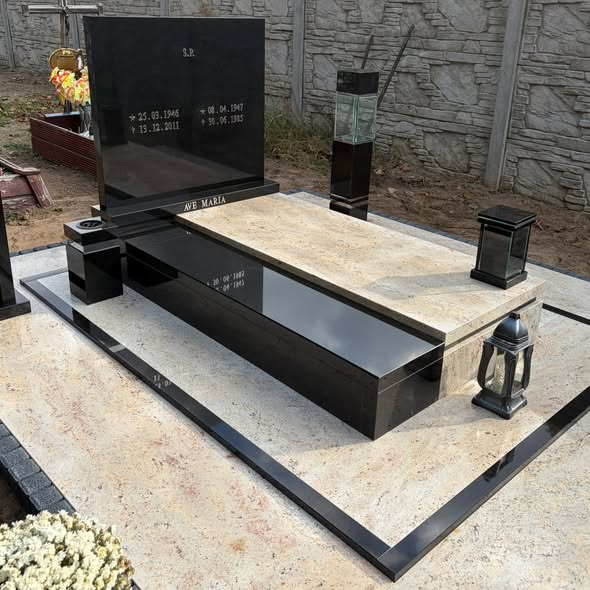
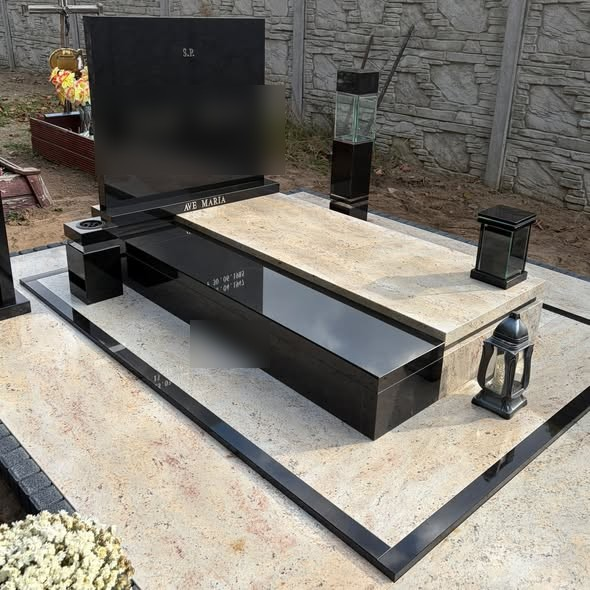
Poprawki po radzie: daty na tablicach rozmyte, uczciwe podpisy (plac zakładu, przykładowe wzory), bez obietnic bez źródła

diff --git a/index.html b/index.html
@@ -4,7 +4,7 @@
 <meta charset="UTF-8">
 <meta name="viewport" content="width=device-width, initial-scale=1.0">
 <title>Nagrobki z granitu i dopisy · Międzyrzecz | Zefiro</title>
-<meta name="description" content="Zefiro, zakład kamieniarski w Międzyrzeczu: nagrobki pojedyncze i rodzinne, grobowce, dopisy, renowacje. Projekt i wycena przed decyzją. Tel. 885 165 001.">
+<meta name="description" content="Zefiro, zakład kamieniarski w Międzyrzeczu: nagrobki pojedyncze i rodzinne, grobowce, dopisy, renowacje. Dopisy i piaskowanie napisów. Tel. 885 165 001.">
 <link rel="canonical" href="https://impulseo-pl.github.io/zefiro/">
 <meta name="robots" content="noindex, nofollow">
 <meta name="theme-color" content="#240808">
@@ -12,7 +12,7 @@
 <meta property="og:locale" content="pl_PL">
 <meta property="og:site_name" content="Zefiro">
 <meta property="og:title" content="Nagrobki z granitu i dopisy · Międzyrzecz | Zefiro">
-<meta property="og:description" content="Zefiro, zakład kamieniarski w Międzyrzeczu: nagrobki pojedyncze i rodzinne, grobowce, dopisy, renowacje. Projekt i wycena przed decyzją. Tel. 885 165 001.">
+<meta property="og:description" content="Zefiro, zakład kamieniarski w Międzyrzeczu: nagrobki pojedyncze i rodzinne, grobowce, dopisy, renowacje. Dopisy i piaskowanie napisów. Tel. 885 165 001.">
 <meta property="og:url" content="https://impulseo-pl.github.io/zefiro/">
 <meta property="og:image" content="https://impulseo-pl.github.io/zefiro/img/og.jpg">
 <meta property="og:image:width" content="1200">
@@ -25,10 +25,10 @@
 <link rel="preconnect" href="https://fonts.googleapis.com">
 <link rel="preconnect" href="https://fonts.gstatic.com" crossorigin>
 <link href="https://fonts.googleapis.com/css2?family=Instrument+Sans:wght@400..600&family=Instrument+Serif&display=swap" rel="stylesheet">
-<link rel="stylesheet" href="assets/styles.css?v=20261118a">
-<style>@media (max-width:700px){.pill-logo .word{display:inline;font-size:.92rem;letter-spacing:.12em}}</style>
+<link rel="stylesheet" href="assets/styles.css?v=20261118b">
+<style>.hero-img{object-position:50% 30%}@media (max-width:700px){.pill-logo .word{display:inline;font-size:.92rem;letter-spacing:.12em}}</style>
 <script src="assets/lenis.min.js?v=1.1.20" defer></script>
-<script src="assets/main.js?v=20261118a" defer></script>
+<script src="assets/main.js?v=20261118b" defer></script>
 </head>
 <body>
 <a class="skip" href="#tresc">Przejdź do treści</a>
@@ -61,7 +61,7 @@
       <h1>Nagrobki z&nbsp;granitu i&nbsp;dopisy</h1>
     </div>
     <div class="hero-side">
-      <p>Najpierw zobaczysz projekt i&nbsp;pełną wycenę. Kamień zamawiamy dopiero, gdy wszystko Ci pasuje.</p>
+      <p>Pomagamy wybrać projekt i&nbsp;kamień, wykonujemy pomnik w&nbsp;naszym zakładzie i&nbsp;sami go montujemy.</p>
       <div class="btn-row">
         <a class="btn btn-main hero-call" href="tel:+48885165001"><svg class="ico" viewBox="0 0 24 24" fill="none" aria-hidden="true"><path d="M6.6 10.8a15.5 15.5 0 0 0 6.6 6.6l2.2-2.2a1 1 0 0 1 1-.24 11.4 11.4 0 0 0 3.6.58 1 1 0 0 1 1 1V20a1 1 0 0 1-1 1A17 17 0 0 1 3 4a1 1 0 0 1 1-1h3.5a1 1 0 0 1 1 1c0 1.25.2 2.45.57 3.57a1 1 0 0 1-.25 1L6.6 10.8Z" fill="currentColor"/></svg>Zadzwoń +48 885 165 001</a>
         <a class="btn btn-line btn-on-photo" href="realizacje.html">Zobacz realizacje</a>
@@ -72,10 +72,10 @@
 
 <section class="facts cacao dark" aria-label="Najważniejsze informacje">
   <ul class="wrap facts-list">
-    <li><b>Własny zakład</b>i&nbsp;montaż na cmentarzu</li>
-    <li><b>Formalności</b>załatwiamy na cmentarzu</li>
-    <li><b>Projekt</b>przed decyzją</li>
-    <li><b>Cena</b>rozpisana na pozycje</li>
+    <li><b>Własny zakład</b>wykonanie i&nbsp;montaż</li>
+    <li><b>Pomoc w&nbsp;wyborze</b>projektu i&nbsp;kamienia</li>
+    <li><b>Dopisy</b>liternictwo i&nbsp;piaskowanie</li>
+    <li><b>Międzyrzecz</b>i&nbsp;okoliczne cmentarze</li>
   </ul>
 </section>
 
@@ -96,7 +96,7 @@
   <div class="reveal-stick">
     <div class="reveal-main">
       <h2 class="label" id="jak">Jak pracujemy</h2>
-      <p class="reveal-text">Rozmawiamy o&nbsp;tym, jaki ma być pomnik. Przygotowujemy projekt z&nbsp;wymiarami i&nbsp;wycenę rozpisaną na pozycje. Kamień zamawiamy dopiero, gdy wszystko Ci pasuje. Formalności na cmentarzu załatwiamy my, a&nbsp;na końcu sami montujemy.</p>
+      <p class="reveal-text">Rozmawiamy o&nbsp;tym, jaki ma być pomnik. Pomagamy wybrać projekt i&nbsp;kamień, a&nbsp;szczegóły i&nbsp;cenę ustalamy przed rozpoczęciem pracy. Pomnik wykonujemy w&nbsp;naszym zakładzie i&nbsp;sami montujemy go na cmentarzu.</p>
     </div>
     <aside class="reveal-aside">
       <p class="label">Zadzwoń, porozmawiamy spokojnie</p>
@@ -111,12 +111,12 @@
     <h2 class="label">Oferta</h2>
     <div>
       <div class="svc-list">
-      <a class="svc-row" href="oferta.html#pojedyncze"><h3>Nagrobki pojedyncze</h3><p>Od projektu z&nbsp;wymiarami po montaż, z&nbsp;własnego zakładu.</p></a>
-      <a class="svc-row" href="oferta.html#rodzinne"><h3>Nagrobki podwójne i&nbsp;rodzinne</h3><p>Z&nbsp;miejscem na kolejne wpisy, bez przeróbek całości.</p></a>
+      <a class="svc-row" href="oferta.html#pojedyncze"><h3>Nagrobki pojedyncze</h3><p>Od wyboru projektu po montaż, z&nbsp;własnego zakładu.</p></a>
+      <a class="svc-row" href="oferta.html#rodzinne"><h3>Nagrobki podwójne i&nbsp;rodzinne</h3><p>Z&nbsp;myślą o&nbsp;kolejnych wpisach.</p></a>
       <a class="svc-row" href="oferta.html#grobowce"><h3>Grobowce i&nbsp;piwnice</h3><p>Przed pochówkiem albo z&nbsp;wyprzedzeniem, na przyszłość.</p></a>
-      <a class="svc-row" href="oferta.html#dopisy"><h3>Liternictwo i&nbsp;dopisy</h3><p>Zwykle na cmentarzu, bez zdejmowania tablicy.</p></a>
-      <a class="svc-row" href="oferta.html#renowacja"><h3>Renowacja i&nbsp;czyszczenie</h3><p>Mycie, polerowanie, ustawienie elementów na nowo.</p></a>
-      <a class="svc-row" href="oferta.html#dodatki"><h3>Wazony, lampiony i&nbsp;tablice</h3><p>Z&nbsp;kamienia zgranego z&nbsp;pomnikiem, mocowane na stałe.</p></a>
+      <a class="svc-row" href="oferta.html#dopisy"><h3>Liternictwo i&nbsp;dopisy</h3><p>Także piaskowanie napisów.</p></a>
+      <a class="svc-row" href="oferta.html#renowacja"><h3>Renowacja i&nbsp;czyszczenie</h3><p>Zakres ustalamy po obejrzeniu pomnika.</p></a>
+      <a class="svc-row" href="oferta.html#dodatki"><h3>Wazony, lampiony i&nbsp;tablice</h3><p>Dobrane do pomnika, razem z&nbsp;nagrobkiem albo później.</p></a>
       </div>
       <div class="svc-foot"><a class="btn btn-main" href="oferta.html">Pełna oferta <span aria-hidden="true">→</span></a></div>
     </div>
@@ -128,7 +128,7 @@
     <a class="card" href="oferta.html#pojedyncze"><img src="img/g13.jpg" width="1200" height="1600" alt="Jasny nagrobek pojedynczy z&nbsp;krzyżem, realizacja Zefiro" decoding="async"><span class="card-in"><h3>Nagrobki pojedyncze</h3><span class="btn btn-main btn-sm">Zobacz w&nbsp;ofercie</span></span></a>
   </div></div>
   <div class="card-wrap"><div class="card-stick">
-    <a class="card" href="oferta.html#rodzinne"><img src="img/g16.jpg" width="932" height="692" alt="Nagrobek podwójny z&nbsp;ciemnego granitu, realizacja Zefiro" loading="lazy" decoding="async"><span class="card-in"><h3>Nagrobki podwójne i&nbsp;rodzinne</h3><span class="btn btn-main btn-sm">Zobacz w&nbsp;ofercie</span></span></a>
+    <a class="card" href="oferta.html#pojedyncze"><img src="img/g15.jpg" width="658" height="908" alt="Nagrobek z&nbsp;czarnego granitu, realizacja Zefiro" loading="lazy" decoding="async"><span class="card-in"><h3>Nagrobki z&nbsp;ciemnego granitu</h3><span class="btn btn-main btn-sm">Zobacz w&nbsp;ofercie</span></span></a>
   </div></div>
   <div class="card-wrap"><div class="card-stick">
     <a class="card" href="oferta.html#pojedyncze"><img src="img/g11.jpg" width="720" height="960" alt="Nagrobek z&nbsp;czerwonego granitu z&nbsp;krzyżem, realizacja Zefiro" loading="lazy" decoding="async"><span class="card-in"><h3>Granit w&nbsp;różnych kolorach</h3><span class="btn btn-main btn-sm">Zobacz w&nbsp;ofercie</span></span></a>
@@ -139,11 +139,11 @@
 <section class="sec bone" id="dodatki">
   <div class="wrap about">
     <div class="about-left up">
-      <p class="label-serif">Wazony i&nbsp;lampiony</p><figure class="about-fig"><img src="img/z2.jpg" width="590" height="590" alt="Zestaw kamiennych wazonów i&nbsp;lampionów, Zefiro" loading="lazy"></figure>
+      <p class="label-serif">Wazony i&nbsp;lampiony</p><figure class="about-fig"><img src="img/z2.jpg" width="590" height="590" alt="Przykładowe wzory wazonów i&nbsp;lampionów" loading="lazy"><figcaption class="poglad">Przykładowe wzory</figcaption></figure>
     </div>
     <div class="about-right up">
-      <p class="statement">Wazon, lampion czy ławeczka przy grobie, z&nbsp;kamienia zgranego kolorem i&nbsp;fakturą z&nbsp;pomnikiem.</p>
-      <p class="lead">Mocujemy na stałe, żeby nic nie chodziło po płycie. Można zamówić razem z&nbsp;nagrobkiem albo dokupić po latach.</p>
+      <p class="statement">Wazon, lampion czy tablica przy grobie, dobrane kolorem do pomnika.</p>
+      <p class="lead">Można zamówić razem z&nbsp;nagrobkiem albo dokupić później.</p>
       <div class="btn-row"><a class="btn btn-main" href="tel:+48885165001"><svg class="ico" viewBox="0 0 24 24" fill="none" aria-hidden="true"><path d="M6.6 10.8a15.5 15.5 0 0 0 6.6 6.6l2.2-2.2a1 1 0 0 1 1-.24 11.4 11.4 0 0 0 3.6.58 1 1 0 0 1 1 1V20a1 1 0 0 1-1 1A17 17 0 0 1 3 4a1 1 0 0 1 1-1h3.5a1 1 0 0 1 1 1c0 1.25.2 2.45.57 3.57a1 1 0 0 1-.25 1L6.6 10.8Z" fill="currentColor"/></svg>Zadzwoń +48 885 165 001</a></div>
     </div>
   </div>
@@ -169,7 +169,7 @@
       <h2>Porozmawiajmy</h2>
       <p class="big-addr">ul. Konstytucji 3 Maja 53<br>66-300 Międzyrzecz</p>
       <div class="contact-meta">
-        <p><b>Zakład</b>Możesz przyjść, obejrzeć kamień i&nbsp;projekty, i&nbsp;wrócić z&nbsp;decyzją, kiedy przyjdzie na to czas.</p>
+        <p><b>Zakład</b>Możesz przyjść, obejrzeć kamień i&nbsp;wrócić z&nbsp;decyzją, kiedy przyjdzie na to czas. Najlepiej zadzwoń wcześniej.</p>
         <p><a class="link" href="https://www.google.com/maps/place/Firma+Kamieniarska+Zefiro/@52.4386114,15.5834613,406m/data=!3m1!1e3!4m6!3m5!1s0x4706f49b4816bd09:0x40137a1db30fa63c!8m2!3d52.438465!4d15.584197" target="_blank" rel="noopener">Wyznacz trasę w&nbsp;Google <span aria-hidden="true">→</span></a></p>
       </div>
       <div class="map"><iframe src="https://maps.google.com/maps?q=Firma%20Kamieniarska%20Zefiro%2C%20Konstytucji%203%20Maja%2053%2C%20Mi%C4%99dzyrzecz&z=15&output=embed" title="Mapa dojazdu, ul. Konstytucji 3 Maja 53, 66-300 Międzyrzecz" loading="lazy" referrerpolicy="no-referrer-when-downgrade"></iframe></div>

diff --git a/realizacje.html b/realizacje.html
@@ -23,10 +23,10 @@
 <link rel="preconnect" href="https://fonts.googleapis.com">
 <link rel="preconnect" href="https://fonts.gstatic.com" crossorigin>
 <link href="https://fonts.googleapis.com/css2?family=Instrument+Sans:wght@400..600&family=Instrument+Serif&display=swap" rel="stylesheet">
-<link rel="stylesheet" href="assets/styles.css?v=20261118a">
-<style>@media (max-width:700px){.pill-logo .word{display:inline;font-size:.92rem;letter-spacing:.12em}}</style>
+<link rel="stylesheet" href="assets/styles.css?v=20261118b">
+<style>.hero-img{object-position:50% 30%}@media (max-width:700px){.pill-logo .word{display:inline;font-size:.92rem;letter-spacing:.12em}}</style>
 <script src="assets/lenis.min.js?v=1.1.20" defer></script>
-<script src="assets/main.js?v=20261118a" defer></script>
+<script src="assets/main.js?v=20261118b" defer></script>
 </head>
 <body>
 <a class="skip" href="#tresc">Przejdź do treści</a>
@@ -54,25 +54,25 @@
 <section class="phead bone">
   <div class="wrap">
     <nav class="crumbs" aria-label="Okruszki"><a href="index.html">Strona główna</a><span aria-hidden="true">/</span><span aria-current="page">Realizacje</span></nav>
-    <h1>Pomniki, które wykonaliśmy i&nbsp;ustawiliśmy</h1>
-    <p class="lead">Zdjęcia z&nbsp;cmentarzy, nie z&nbsp;katalogu hurtowni. Kliknij zdjęcie, żeby je powiększyć.</p>
+    <h1>Pomniki z&nbsp;naszego zakładu</h1>
+    <p class="lead">Pomniki z&nbsp;naszego placu i&nbsp;z&nbsp;cmentarzy. Kliknij zdjęcie, żeby je powiększyć.</p>
   </div>
 </section>
 <section class="sec bone" style="padding-top:0">
   <div class="wrap">
     <div class="gal">
-    <figure><button type="button" aria-label="Powiększ: Nagrobek z&nbsp;czarnego granitu z&nbsp;jasnym obramowaniem"><img src="img/z3.jpg" width="590" height="590" alt="Nagrobek z&nbsp;czarnego granitu z&nbsp;jasnym obramowaniem" loading="lazy"></button><figcaption><b>Ciemny granit z&nbsp;jasnym obramowaniem</b>Nagrobek pojedynczy</figcaption></figure>
+    <figure><button type="button" aria-label="Powiększ: Nagrobek z&nbsp;czarnego granitu z&nbsp;jasnym obramowaniem"><img src="img/z3.jpg" width="590" height="590" alt="Nagrobek z&nbsp;czarnego granitu z&nbsp;jasnym obramowaniem" loading="lazy"></button><figcaption><b>Ciemny granit z&nbsp;jasnym obramowaniem</b>Na cmentarzu</figcaption></figure>
     <figure><button type="button" aria-label="Powiększ: Ten sam nagrobek z&nbsp;boku"><img src="img/z6.jpg" width="590" height="590" alt="Ten sam nagrobek z&nbsp;boku" loading="lazy"></button><figcaption><b>Ten sam nagrobek z&nbsp;boku</b>Obramowanie i płyta</figcaption></figure>
-    <figure><button type="button" aria-label="Powiększ: Jasny nagrobek z&nbsp;krzyżem i&nbsp;kwiatami"><img src="img/z5.jpg" width="590" height="590" alt="Jasny nagrobek z&nbsp;krzyżem i&nbsp;kwiatami" loading="lazy"></button><figcaption><b>Jasny granit z&nbsp;krzyżem</b>Nagrobek pojedynczy</figcaption></figure>
-    <figure><button type="button" aria-label="Powiększ: Jasny nagrobek z&nbsp;krzyżem"><img src="img/g13.jpg" width="1200" height="1600" alt="Jasny nagrobek z&nbsp;krzyżem" loading="lazy"></button><figcaption><b>Jasny nagrobek</b>Krzyż na tablicy</figcaption></figure>
-    <figure><button type="button" aria-label="Powiększ: Jasny nagrobek z&nbsp;sercem"><img src="img/g14.jpg" width="1189" height="1600" alt="Jasny nagrobek z&nbsp;sercem" loading="lazy"></button><figcaption><b>Nagrobek z&nbsp;sercem</b>Jasny granit</figcaption></figure>
-    <figure><button type="button" aria-label="Powiększ: Jasny nagrobek z&nbsp;granitu"><img src="img/g10.jpg" width="1180" height="1600" alt="Jasny nagrobek z&nbsp;granitu" loading="lazy"></button><figcaption><b>Jasny nagrobek</b>Granit polerowany</figcaption></figure>
-    <figure><button type="button" aria-label="Powiększ: Nagrobek z&nbsp;czerwonego granitu z&nbsp;krzyżem"><img src="img/g11.jpg" width="720" height="960" alt="Nagrobek z&nbsp;czerwonego granitu z&nbsp;krzyżem" loading="lazy"></button><figcaption><b>Czerwony granit</b>Tablica z&nbsp;krzyżem</figcaption></figure>
-    <figure><button type="button" aria-label="Powiększ: Nagrobek z ciemnego granitu"><img src="img/g12.jpg" width="1200" height="1600" alt="Nagrobek z ciemnego granitu" loading="lazy"></button><figcaption><b>Ciemny granit</b>Nagrobek pojedynczy</figcaption></figure>
-    <figure><button type="button" aria-label="Powiększ: Nagrobek z czarnego granitu"><img src="img/g15.jpg" width="658" height="908" alt="Nagrobek z czarnego granitu" loading="lazy"></button><figcaption><b>Czarny granit</b>Nagrobek pojedynczy</figcaption></figure>
-    <figure><button type="button" aria-label="Powiększ: Nagrobek podwójny z&nbsp;ciemnego granitu"><img src="img/g16.jpg" width="932" height="692" alt="Nagrobek podwójny z&nbsp;ciemnego granitu" loading="lazy"></button><figcaption><b>Nagrobek podwójny</b>Ciemny granit</figcaption></figure>
-    <figure><button type="button" aria-label="Powiększ: Kamienne lampiony na płycie"><img src="img/z1.jpg" width="590" height="590" alt="Kamienne lampiony na płycie" loading="lazy"></button><figcaption><b>Lampiony</b>Z&nbsp;kamienia</figcaption></figure>
-    <figure><button type="button" aria-label="Powiększ: Kamienne wazony i&nbsp;lampiony"><img src="img/z2.jpg" width="590" height="590" alt="Kamienne wazony i&nbsp;lampiony" loading="lazy"></button><figcaption><b>Wazony i&nbsp;lampiony</b>Różne kolory kamienia</figcaption></figure>
+    <figure><button type="button" aria-label="Powiększ: Jasny nagrobek z&nbsp;krzyżem i&nbsp;kwiatami"><img src="img/z5.jpg" width="590" height="590" alt="Jasny nagrobek z&nbsp;krzyżem i&nbsp;kwiatami" loading="lazy"></button><figcaption><b>Jasny granit z&nbsp;krzyżem</b>Na cmentarzu</figcaption></figure>
+    <figure><button type="button" aria-label="Powiększ: Jasny nagrobek z&nbsp;krzyżem"><img src="img/g13.jpg" width="1200" height="1600" alt="Jasny nagrobek z&nbsp;krzyżem" loading="lazy"></button><figcaption><b>Jasny nagrobek</b>Na placu zakładu</figcaption></figure>
+    <figure><button type="button" aria-label="Powiększ: Jasny nagrobek z&nbsp;sercem"><img src="img/g14.jpg" width="1189" height="1600" alt="Jasny nagrobek z&nbsp;sercem" loading="lazy"></button><figcaption><b>Nagrobek z&nbsp;sercem</b>Na placu zakładu</figcaption></figure>
+    <figure><button type="button" aria-label="Powiększ: Jasny nagrobek z&nbsp;granitu"><img src="img/g10.jpg" width="1180" height="1600" alt="Jasny nagrobek z&nbsp;granitu" loading="lazy"></button><figcaption><b>Jasny nagrobek</b>Na placu zakładu</figcaption></figure>
+    <figure><button type="button" aria-label="Powiększ: Nagrobek z&nbsp;czerwonego granitu z&nbsp;krzyżem"><img src="img/g11.jpg" width="720" height="960" alt="Nagrobek z&nbsp;czerwonego granitu z&nbsp;krzyżem" loading="lazy"></button><figcaption><b>Czerwony granit</b>Na placu zakładu</figcaption></figure>
+    <figure><button type="button" aria-label="Powiększ: Nagrobek z ciemnego granitu"><img src="img/g12.jpg" width="1200" height="1600" alt="Nagrobek z ciemnego granitu" loading="lazy"></button><figcaption><b>Ciemny granit</b>Na placu zakładu</figcaption></figure>
+    <figure><button type="button" aria-label="Powiększ: Nagrobek z czarnego granitu"><img src="img/g15.jpg" width="658" height="908" alt="Nagrobek z czarnego granitu" loading="lazy"></button><figcaption><b>Czarny granit</b>Na placu zakładu</figcaption></figure>
+    <figure><button type="button" aria-label="Powiększ: Dwa nagrobki z&nbsp;ciemnego granitu"><img src="img/g16.jpg" width="932" height="692" alt="Dwa nagrobki z&nbsp;ciemnego granitu" loading="lazy"></button><figcaption><b>Dwa nagrobki z&nbsp;ciemnego granitu</b>Na placu zakładu</figcaption></figure>
+    <figure><button type="button" aria-label="Powiększ: Lampiony na płycie z&nbsp;ciemnego granitu"><img src="img/z1.jpg" width="590" height="590" alt="Lampiony na płycie z&nbsp;ciemnego granitu" loading="lazy"></button><figcaption><b>Lampiony</b>Przykładowe wzory</figcaption></figure>
+    <figure><button type="button" aria-label="Powiększ: Wazony i&nbsp;lampiony"><img src="img/z2.jpg" width="590" height="590" alt="Wazony i&nbsp;lampiony" loading="lazy"></button><figcaption><b>Wazony i&nbsp;lampiony</b>Przykładowe wzory</figcaption></figure>
     </div>
   </div>
 </section>

diff --git a/oferta.html b/oferta.html
@@ -23,10 +23,10 @@
 <link rel="preconnect" href="https://fonts.googleapis.com">
 <link rel="preconnect" href="https://fonts.gstatic.com" crossorigin>
 <link href="https://fonts.googleapis.com/css2?family=Instrument+Sans:wght@400..600&family=Instrument+Serif&display=swap" rel="stylesheet">
-<link rel="stylesheet" href="assets/styles.css?v=20261118a">
-<style>@media (max-width:700px){.pill-logo .word{display:inline;font-size:.92rem;letter-spacing:.12em}}</style>
+<link rel="stylesheet" href="assets/styles.css?v=20261118b">
+<style>.hero-img{object-position:50% 30%}@media (max-width:700px){.pill-logo .word{display:inline;font-size:.92rem;letter-spacing:.12em}}</style>
 <script src="assets/lenis.min.js?v=1.1.20" defer></script>
-<script src="assets/main.js?v=20261118a" defer></script>
+<script src="assets/main.js?v=20261118b" defer></script>
 </head>
 <body>
 <a class="skip" href="#tresc">Przejdź do treści</a>
@@ -66,25 +66,25 @@
       <figure class="off-fig"><img src="img/g14.jpg" width="1189" height="1600" alt="Jasny nagrobek pojedynczy z&nbsp;sercem, realizacja Zefiro" loading="lazy"></figure>
       <div>
         <h2>Nagrobki pojedyncze</h2>
-        <p>Robimy go od początku do końca sami: projekt z&nbsp;wymiarami, docięcie i&nbsp;polerowanie kamienia, liternictwo, na końcu montaż. Fundament zbroimy i&nbsp;dajemy mu związać, dlatego pomnik stoi prosto także po latach.</p>
-        <ul><li>Projekt z&nbsp;wymiarami</li><li>Docięcie i&nbsp;polerowanie kamienia</li><li>Liternictwo i&nbsp;montaż</li></ul>
+        <p>Robimy go w&nbsp;naszym zakładzie: pomagamy wybrać projekt i&nbsp;kamień, wykonujemy liternictwo, a&nbsp;na końcu montujemy pomnik na cmentarzu.</p>
+        <ul><li>Pomoc w&nbsp;wyborze projektu i&nbsp;kamienia</li><li>Liternictwo</li><li>Montaż na cmentarzu</li></ul>
         <div class="btn-row" style="margin-top:32px"><a class="btn btn-main" href="tel:+48885165001"><svg class="ico" viewBox="0 0 24 24" fill="none" aria-hidden="true"><path d="M6.6 10.8a15.5 15.5 0 0 0 6.6 6.6l2.2-2.2a1 1 0 0 1 1-.24 11.4 11.4 0 0 0 3.6.58 1 1 0 0 1 1 1V20a1 1 0 0 1-1 1A17 17 0 0 1 3 4a1 1 0 0 1 1-1h3.5a1 1 0 0 1 1 1c0 1.25.2 2.45.57 3.57a1 1 0 0 1-.25 1L6.6 10.8Z" fill="currentColor"/></svg>Zadzwoń</a><a class="btn btn-line" href="sms:+48885165001?body=Dzie%C5%84%20dobry%2C%20pytam%20o%3A%20%28nagrobek%2Fdopis%2Frenowacja%29.%20Cmentarz%3A%20...">Napisz SMS</a></div>
       </div>
     </article>
     <article class="off up" id="rodzinne">
-      <figure class="off-fig"><img src="img/g16.jpg" width="932" height="692" alt="Nagrobek podwójny z&nbsp;ciemnego granitu, realizacja Zefiro" loading="lazy"></figure>
+      <figure class="off-fig"><img src="img/z3.jpg" width="590" height="590" alt="Nagrobek z&nbsp;czarnego granitu z&nbsp;jasnym obramowaniem na cmentarzu, realizacja Zefiro" loading="lazy"></figure>
       <div>
         <h2>Nagrobki podwójne i&nbsp;rodzinne</h2>
-        <p>Grób rodzinny projektujemy z&nbsp;myślą o&nbsp;kolejnych pokoleniach: zostawiamy miejsce na przyszłe wpisy i&nbsp;planujemy tablice tak, żeby dało się je uzupełniać bez przeróbek całości. Rysunek dostaniesz do domu, do obejrzenia z&nbsp;bliskimi.</p>
-        <ul><li>Miejsce na kolejne wpisy</li><li>Rysunek do obejrzenia w&nbsp;domu</li></ul>
+        <p>Grób rodzinny projektujemy z&nbsp;myślą o&nbsp;kolejnych wpisach. Szczegóły ustalamy z&nbsp;rodziną przed rozpoczęciem pracy.</p>
+        <ul><li>Miejsce na kolejne wpisy</li><li>Projekt ustalany z&nbsp;rodziną</li></ul>
         <div class="btn-row" style="margin-top:32px"><a class="btn btn-main" href="tel:+48885165001"><svg class="ico" viewBox="0 0 24 24" fill="none" aria-hidden="true"><path d="M6.6 10.8a15.5 15.5 0 0 0 6.6 6.6l2.2-2.2a1 1 0 0 1 1-.24 11.4 11.4 0 0 0 3.6.58 1 1 0 0 1 1 1V20a1 1 0 0 1-1 1A17 17 0 0 1 3 4a1 1 0 0 1 1-1h3.5a1 1 0 0 1 1 1c0 1.25.2 2.45.57 3.57a1 1 0 0 1-.25 1L6.6 10.8Z" fill="currentColor"/></svg>Zadzwoń</a><a class="btn btn-line" href="sms:+48885165001?body=Dzie%C5%84%20dobry%2C%20pytam%20o%3A%20%28nagrobek%2Fdopis%2Frenowacja%29.%20Cmentarz%3A%20...">Napisz SMS</a></div>
       </div>
     </article>
     <article class="off up" id="dodatki">
-      <figure class="off-fig"><img src="img/z1.jpg" width="590" height="590" alt="Kamienne lampiony na płycie z&nbsp;ciemnego granitu, Zefiro" loading="lazy"></figure>
+      <figure class="off-fig"><img src="img/z1.jpg" width="590" height="590" alt="Lampiony na płycie z&nbsp;ciemnego granitu (przykładowe wzory)" loading="lazy"></figure>
       <div>
         <h2>Wazony, lampiony i&nbsp;tablice</h2>
-        <p>Wazon, lampion czy ławeczka przy grobie, z&nbsp;kamienia zgranego kolorem i&nbsp;fakturą z&nbsp;pomnikiem. Mocujemy na stałe, żeby nic nie chodziło po płycie. Można zamówić razem z&nbsp;nagrobkiem albo dokupić po latach.</p>
+        <p>Wazon, lampion czy tablica przy grobie, dobrane kolorem do pomnika. Można zamówić razem z&nbsp;nagrobkiem albo dokupić później.</p>
         <ul><li>Wazony</li><li>Lampiony</li><li>Tablice i ławeczki</li></ul>
         <div class="btn-row" style="margin-top:32px"><a class="btn btn-main" href="tel:+48885165001"><svg class="ico" viewBox="0 0 24 24" fill="none" aria-hidden="true"><path d="M6.6 10.8a15.5 15.5 0 0 0 6.6 6.6l2.2-2.2a1 1 0 0 1 1-.24 11.4 11.4 0 0 0 3.6.58 1 1 0 0 1 1 1V20a1 1 0 0 1-1 1A17 17 0 0 1 3 4a1 1 0 0 1 1-1h3.5a1 1 0 0 1 1 1c0 1.25.2 2.45.57 3.57a1 1 0 0 1-.25 1L6.6 10.8Z" fill="currentColor"/></svg>Zadzwoń</a><a class="btn btn-line" href="sms:+48885165001?body=Dzie%C5%84%20dobry%2C%20pytam%20o%3A%20%28nagrobek%2Fdopis%2Frenowacja%29.%20Cmentarz%3A%20...">Napisz SMS</a></div>
       </div>
@@ -94,13 +94,13 @@
 <section class="sec bone" id="robimy-tez">
   <div class="wrap rows">
     <h2 class="label">Robimy też</h2>
-    <dl class="rows-list" style="margin:0"><div id="grobowce"><dt>Grobowce i&nbsp;piwnice</dt><dd>Pojedyncze i&nbsp;rodzinne, przed pochówkiem albo na przyszłość. Wymiary kwatery uzgadniamy z&nbsp;zarządcą cmentarza.</dd></div><div id="dopisy"><dt>Liternictwo i&nbsp;dopisy</dt><dd>Dopis zwykle na cmentarzu, bez zdejmowania tablicy. Krój dobieramy do istniejącego napisu, treść i&nbsp;daty uzgadniamy z&nbsp;rodziną na piśmie.</dd></div><div id="renowacja"><dt>Renowacja i&nbsp;czyszczenie</dt><dd>Myjemy kamień środkami do kamienia naturalnego, zmatowiały granit polerujemy, a&nbsp;elementy, które ruszyły się po zimach, ustawiamy na nowo.</dd></div></dl>
+    <dl class="rows-list" style="margin:0"><div id="grobowce"><dt>Grobowce i&nbsp;piwnice</dt><dd>Pojedyncze i&nbsp;rodzinne. Szczegóły ustalamy przed rozpoczęciem pracy.</dd></div><div id="dopisy"><dt>Liternictwo i&nbsp;dopisy</dt><dd>Dopisy i&nbsp;liternictwo, także piaskowanie napisów. Krój liter dobieramy do istniejącego napisu.</dd></div><div id="renowacja"><dt>Renowacja i&nbsp;czyszczenie</dt><dd>Czyszczenie i&nbsp;odnowienie nagrobków. Zakres ustalamy po obejrzeniu pomnika.</dd></div></dl>
   </div>
 </section>
 <section class="sec bordeaux dark" id="jak-pracujemy">
   <div class="wrap rows">
     <h2 class="label">Jak pracujemy</h2>
-    <div><p class="lead" style="margin-bottom:40px">Bez pośpiechu i&nbsp;bez naciskania.</p><dl class="rows-list" style="margin:0"><div><dt>Rozmowa</dt><dd>Mówisz, czego potrzebujesz. Pokazujemy kamień i&nbsp;projekty.</dd></div><div><dt>Projekt i&nbsp;wycena</dt><dd>Dostajesz projekt i&nbsp;cenę rozpisaną na pozycje. Kamień zamawiamy, gdy wszystko Ci pasuje.</dd></div><div><dt>Wykonanie i&nbsp;montaż</dt><dd>Robimy w&nbsp;naszym zakładzie, formalności na cmentarzu załatwiamy my, a&nbsp;na końcu sami montujemy.</dd></div></dl></div>
+    <div><p class="lead" style="margin-bottom:40px">Bez pośpiechu i&nbsp;bez naciskania.</p><dl class="rows-list" style="margin:0"><div><dt>Rozmowa</dt><dd>Mówisz, czego potrzebujesz. Pokazujemy kamień i&nbsp;projekty.</dd></div><div><dt>Projekt i&nbsp;cena</dt><dd>Pomagamy wybrać projekt i&nbsp;kamień, cenę ustalamy przed rozpoczęciem pracy.</dd></div><div><dt>Wykonanie i&nbsp;montaż</dt><dd>Pomnik robimy w&nbsp;naszym zakładzie, a&nbsp;na cmentarzu montujemy go sami.</dd></div></dl></div>
   </div>
 </section>
 <section class="sec cacao dark band">

diff --git a/o-nas.html b/o-nas.html
@@ -4,7 +4,7 @@
 <meta charset="UTF-8">
 <meta name="viewport" content="width=device-width, initial-scale=1.0">
 <title>O nas · Zefiro, zakład kamieniarski w Międzyrzeczu</title>
-<meta name="description" content="Zefiro, zakład kamieniarski w Międzyrzeczu. Własny zakład i montaż, projekt i wycena przed decyzją, formalności na cmentarzu po naszej stronie.">
+<meta name="description" content="Zefiro, zakład kamieniarski w Międzyrzeczu. Własny zakład i montaż, pomoc w wyborze projektu i kamienia, dopisy i renowacje.">
 <link rel="canonical" href="https://impulseo-pl.github.io/zefiro/o-nas.html">
 <meta name="robots" content="noindex, nofollow">
 <meta name="theme-color" content="#240808">
@@ -12,7 +12,7 @@
 <meta property="og:locale" content="pl_PL">
 <meta property="og:site_name" content="Zefiro">
 <meta property="og:title" content="O nas · Zefiro, zakład kamieniarski w Międzyrzeczu">
-<meta property="og:description" content="Zefiro, zakład kamieniarski w Międzyrzeczu. Własny zakład i montaż, projekt i wycena przed decyzją, formalności na cmentarzu po naszej stronie.">
+<meta property="og:description" content="Zefiro, zakład kamieniarski w Międzyrzeczu. Własny zakład i montaż, pomoc w wyborze projektu i kamienia, dopisy i renowacje.">
 <meta property="og:url" content="https://impulseo-pl.github.io/zefiro/o-nas.html">
 <meta property="og:image" content="https://impulseo-pl.github.io/zefiro/img/og.jpg">
 <meta property="og:image:width" content="1200">
@@ -23,10 +23,10 @@
 <link rel="preconnect" href="https://fonts.googleapis.com">
 <link rel="preconnect" href="https://fonts.gstatic.com" crossorigin>
 <link href="https://fonts.googleapis.com/css2?family=Instrument+Sans:wght@400..600&family=Instrument+Serif&display=swap" rel="stylesheet">
-<link rel="stylesheet" href="assets/styles.css?v=20261118a">
-<style>@media (max-width:700px){.pill-logo .word{display:inline;font-size:.92rem;letter-spacing:.12em}}</style>
+<link rel="stylesheet" href="assets/styles.css?v=20261118b">
+<style>.hero-img{object-position:50% 30%}@media (max-width:700px){.pill-logo .word{display:inline;font-size:.92rem;letter-spacing:.12em}}</style>
 <script src="assets/lenis.min.js?v=1.1.20" defer></script>
-<script src="assets/main.js?v=20261118a" defer></script>
+<script src="assets/main.js?v=20261118b" defer></script>
 </head>
 <body>
 <a class="skip" href="#tresc">Przejdź do treści</a>
@@ -66,7 +66,7 @@
     </div>
     <div class="about-right up">
       <p class="statement">Do zakładu przychodzą ludzie w&nbsp;żałobie. Dlatego odpowiadamy na pytania, pokazujemy kamień i&nbsp;projekty, a&nbsp;decyzję zostawiamy rodzinie.</p>
-      <p class="lead">Nagrobki robimy w&nbsp;naszym zakładzie i&nbsp;sami je montujemy. Formalności na cmentarzu załatwiamy my.</p>
+      <p class="lead">Nagrobki robimy w&nbsp;naszym zakładzie i&nbsp;sami je montujemy.</p>
       <div class="btn-row"><a class="btn btn-main" href="tel:+48885165001"><svg class="ico" viewBox="0 0 24 24" fill="none" aria-hidden="true"><path d="M6.6 10.8a15.5 15.5 0 0 0 6.6 6.6l2.2-2.2a1 1 0 0 1 1-.24 11.4 11.4 0 0 0 3.6.58 1 1 0 0 1 1 1V20a1 1 0 0 1-1 1A17 17 0 0 1 3 4a1 1 0 0 1 1-1h3.5a1 1 0 0 1 1 1c0 1.25.2 2.45.57 3.57a1 1 0 0 1-.25 1L6.6 10.8Z" fill="currentColor"/></svg>+48 885 165 001</a></div>
     </div>
   </div>
@@ -74,7 +74,7 @@
 <section class="sec bordeaux dark">
   <div class="wrap rows">
     <h2 class="label">Na czym możesz polegać</h2>
-    <div class="rows-list"><div><h3>Projekt przed decyzją</h3><p>Najpierw rysunek z&nbsp;wymiarami i&nbsp;wycena, potem zamówienie kamienia.</p></div><div><h3>Cena rozpisana na pozycje</h3><p>Wiesz, za co płacisz.</p></div><div><h3>Formalności po naszej stronie</h3><p>Uzgodnienia z&nbsp;cmentarzem załatwiamy my.</p></div></div>
+    <div class="rows-list"><div><h3>Pomoc w&nbsp;wyborze</h3><p>Projekt i&nbsp;kamień dobieramy razem z&nbsp;rodziną.</p></div><div><h3>Własny zakład</h3><p>Pomniki wykonujemy sami.</p></div><div><h3>Montaż</h3><p>Na cmentarzu montujemy sami.</p></div></div>
   </div>
 </section>
 <section class="sec cacao dark band">

diff --git a/kontakt.html b/kontakt.html
@@ -24,10 +24,10 @@
 <link rel="preconnect" href="https://fonts.googleapis.com">
 <link rel="preconnect" href="https://fonts.gstatic.com" crossorigin>
 <link href="https://fonts.googleapis.com/css2?family=Instrument+Sans:wght@400..600&family=Instrument+Serif&display=swap" rel="stylesheet">
-<link rel="stylesheet" href="assets/styles.css?v=20261118a">
-<style>@media (max-width:700px){.pill-logo .word{display:inline;font-size:.92rem;letter-spacing:.12em}}</style>
+<link rel="stylesheet" href="assets/styles.css?v=20261118b">
+<style>.hero-img{object-position:50% 30%}@media (max-width:700px){.pill-logo .word{display:inline;font-size:.92rem;letter-spacing:.12em}}</style>
 <script src="assets/lenis.min.js?v=1.1.20" defer></script>
-<script src="assets/main.js?v=20261118a" defer></script>
+<script src="assets/main.js?v=20261118b" defer></script>
 </head>
 <body>
 <a class="skip" href="#tresc">Przejdź do treści</a>
@@ -65,7 +65,7 @@
       <h2>Zadzwoń albo napisz SMS</h2>
       <p class="big-addr">ul. Konstytucji 3 Maja 53<br>66-300 Międzyrzecz</p>
       <div class="contact-meta">
-        <p><b>Zakład</b>Możesz przyjść, obejrzeć kamień i&nbsp;projekty, i&nbsp;wrócić z&nbsp;decyzją, kiedy przyjdzie na to czas.</p>
+        <p><b>Zakład</b>Możesz przyjść, obejrzeć kamień i&nbsp;wrócić z&nbsp;decyzją, kiedy przyjdzie na to czas. Najlepiej zadzwoń wcześniej.</p>
         <p><a class="link" href="https://www.google.com/maps/place/Firma+Kamieniarska+Zefiro/@52.4386114,15.5834613,406m/data=!3m1!1e3!4m6!3m5!1s0x4706f49b4816bd09:0x40137a1db30fa63c!8m2!3d52.438465!4d15.584197" target="_blank" rel="noopener">Wyznacz trasę w&nbsp;Google <span aria-hidden="true">→</span></a></p>
       </div>
       <div class="map"><iframe src="https://maps.google.com/maps?q=Firma%20Kamieniarska%20Zefiro%2C%20Konstytucji%203%20Maja%2053%2C%20Mi%C4%99dzyrzecz&z=15&output=embed" title="Mapa dojazdu, ul. Konstytucji 3 Maja 53, 66-300 Międzyrzecz" loading="lazy" referrerpolicy="no-referrer-when-downgrade"></iframe></div>
@@ -85,10 +85,10 @@
   <div class="wrap faq">
     <h2 class="label">Częste pytania</h2>
     <div>
-      <details><summary>Czy mogę najpierw zobaczyć projekt?</summary><p>Tak. Najpierw dostajesz projekt i&nbsp;wycenę rozpisaną na pozycje, a&nbsp;kamień zamawiamy dopiero, gdy wszystko Ci pasuje.</p></details>
-      <details><summary>Kto załatwia formalności na cmentarzu?</summary><p>My. Wymiary kwatery uzgadniamy z&nbsp;zarządcą cmentarza.</p></details>
-      <details><summary>Jak wygląda dopis kolejnej osoby?</summary><p>Zwykle robimy go na cmentarzu, bez zdejmowania tablicy. Krój liter dobieramy do istniejącego napisu.</p></details>
-      <details><summary>Czy odnawiacie stare nagrobki?</summary><p>Tak: mycie, polerowanie zmatowiałego granitu i&nbsp;ustawienie elementów na nowo.</p></details>
+      <details><summary>Pomożecie wybrać projekt?</summary><p>Tak. Pomagamy wybrać projekt i&nbsp;kamień, a&nbsp;cenę ustalamy przed rozpoczęciem pracy.</p></details>
+      <details><summary>Czy mogę przyjść do zakładu?</summary><p>Tak. Najlepiej zadzwoń wcześniej, żeby ktoś na Ciebie czekał.</p></details>
+      <details><summary>Robicie dopisy na istniejących pomnikach?</summary><p>Tak, także piaskowanie napisów. Krój liter dobieramy do istniejącego napisu.</p></details>
+      <details><summary>Czy odnawiacie stare nagrobki?</summary><p>Tak. Zakres ustalamy po obejrzeniu pomnika.</p></details>
       <details><summary>Gdzie jest zakład?</summary><p>Międzyrzecz, ul. Konstytucji 3 Maja 53.</p></details>
     </div>
   </div>
